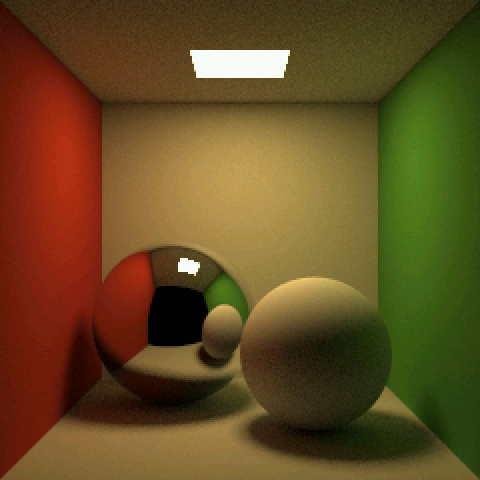
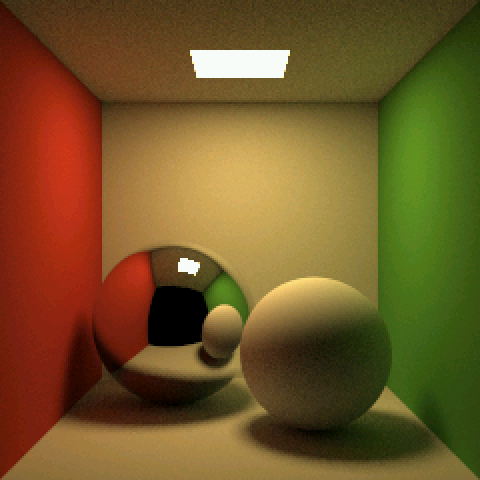
Cornell box: exposure 1.8
The white surfaces now nearly match the classic reference rendering's
brightness. Bit-identical to the reference on the board in every mode.

diff --git a/app/cornell_scene.py b/app/cornell_scene.py
@@ -39,7 +39,7 @@ BLOCK = (
     0x3F39999A, 0x3F35C28F, 0x3F2E147B, 0x3F2147AE, 0x3D851EB8, 0x3D4CCCCD,
     0x3E0F5C29, 0x3EE66666, 0x3DBA5E35, 0x3F333333, 0x3E4CCCCD, 0x3EC28F5C,
     0x3D23D70A, 0x40A00000, 0x3F400000, 0x3F400000, 0x3F400000, 0x3E99999A,
-    0x3E800000, 0x3F266666, 0x3D800000, 0x40800000, 0x3F733333, 0x3FB33333,
+    0x3E800000, 0x3F266666, 0x3D800000, 0x40800000, 0x3F733333, 0x3FE66666,
     0x41FFFDF4, 0x427FFEFA, 0x00000000, 0x3F2A3D71, 0x3E19999A, 0x3E99999A,
     0x3F73CC22, 0xBE9C30A5, 0x3E19999A, 0x3E19999A, 0x3E19999A, 0xBE19999A,
     0xBE19999A, 0xBE19999A, 0x3EAB851F, 0x3E99999A, 0x3F2147AE, 0x3F7490EF,

diff --git a/tools/cornell_scene.py b/tools/cornell_scene.py
@@ -20,7 +20,7 @@ ROOT = pathlib.Path(__file__).resolve().parent.parent
 
 SIZE = 240  # image width and height
 DEPTH = 3  # surface interactions per path
-EXPOSURE = 1.4
+EXPOSURE = 1.8
 
 CAMERA = (0.5, 0.5, -1.35)
 WHITE = (0.725, 0.71, 0.68)  # the classic Cornell box reflectances

diff --git a/NOTES.md b/NOTES.md
@@ -191,7 +191,9 @@ mirror sphere.
   (`HIT_FACE`) for the normal, and the boxes shadow the light. 1.29 s per
   pass (each box test costs 6 divides, for camera and shadow rays alike)
   vs 0.74 s for the spheres. All modes are bit-identical to the reference.
-- Exposure 1.4 (was 1.0), to get closer to the classic reference rendering's
+- Exposure 1.8 (was 1.0): the white surfaces now nearly match the classic
+  reference rendering; its colored walls are darker and less saturated than
+  ours (it used measured spectra). 1.4 was tried first.
   brightness. 5 interactions per path instead of 3 was tried and dropped:
   only 3-4% brighter, for 35% longer passes (0.98 s spheres, 1.76 s boxes).
 - **Slice-assigning into a big bytearray is very slow in CircuitPython**:
